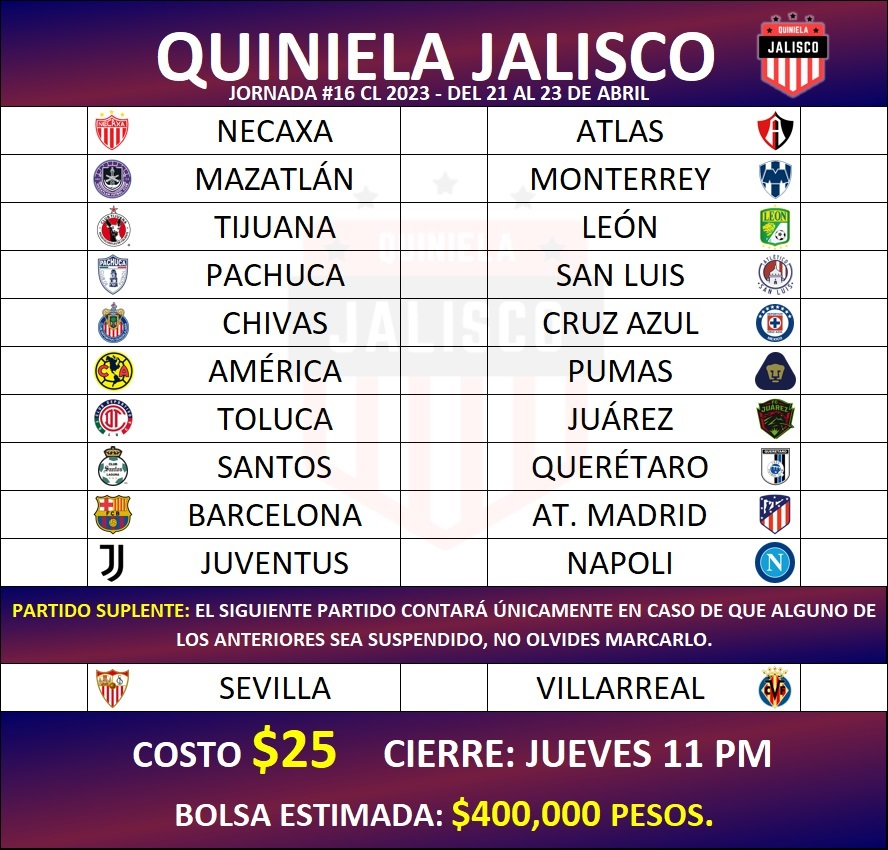
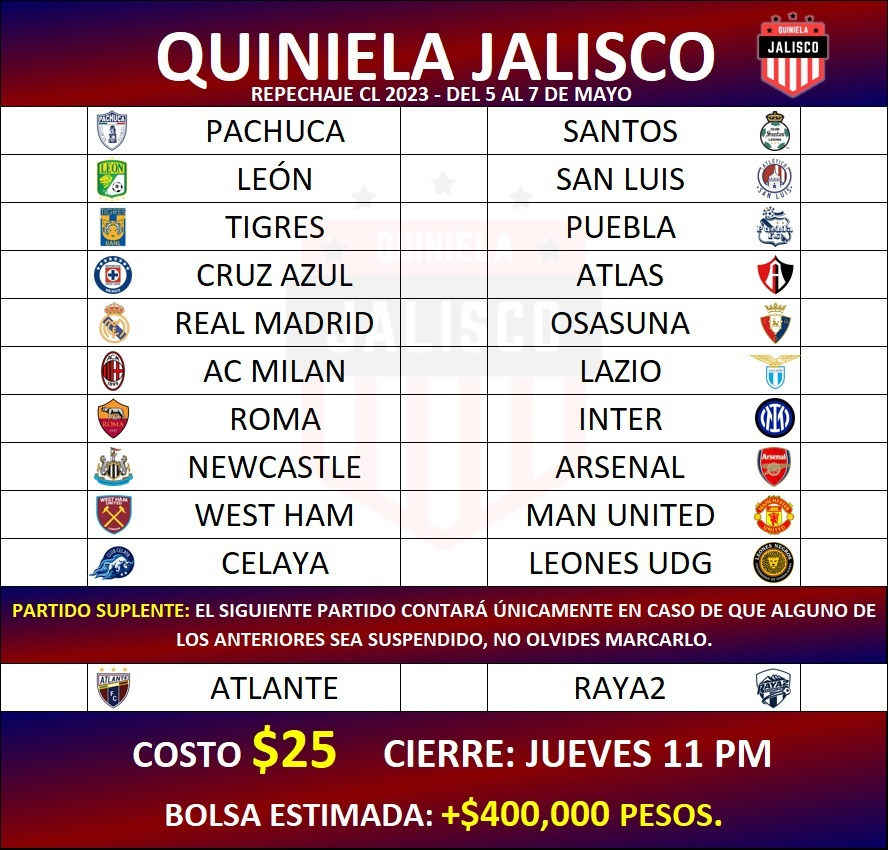
Repechaje C23

diff --git a/11/styles11.css b/11/styles11.css
@@ -16,7 +16,7 @@ body{
 
 .quiniela{
     margin: auto;
-    background-image: url("3eeb8a41-a25c-495c-954b-1fbf4cc9d9c8.jpeg");
+    background-image: url("quiniela11.jpg");
     background-size: 100%;
     background-repeat: no-repeat;
     max-width: 400px;
@@ -94,8 +94,8 @@ body{
     margin-top: 9%;
     border-top: solid 1px black;
     border-radius: 0 0 14px 14px;
-    background: -webkit-linear-gradient(1turn, rgb(23,1,104) -28% ,rgb(1,97,7) 110%);
-    background: linear-gradient(1turn, rgb(23,1,104) -28% ,rgb(1,97,7) 110%);
+    background: -webkit-linear-gradient(1turn, rgb(23,1,104) -28% ,rgb(131,0,6) 110%);
+    background: linear-gradient(1turn, rgb(23,1,104) -28% ,rgb(131,0,6) 110%);
 }
 
 .text-lg{
@@ -292,7 +292,7 @@ h6{
 }
 
 #cantidad:before{
-    content:'$400,000 pesos';
+    content:'+$400,000 pesos';
     color: yellow;
     white-space:pre;
 }
